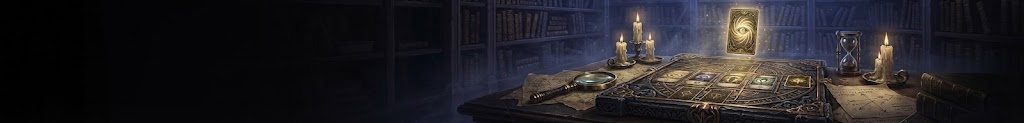
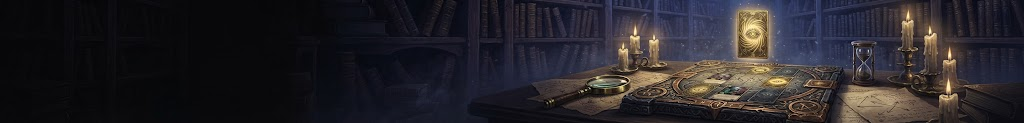
v433 : icône du Butin, bannières de la Salle des jeux et des Énigmes
Claude-Session: https://claude.ai/code/session_01G3jW2e2fkjyWdrMoKXNbtm

diff --git a/sw.js b/sw.js
@@ -1,7 +1,7 @@
 // Service worker d'ABYSSAL : l'application et les données sont mises en cache
 // pour fonctionner hors ligne après une première visite. Incrémenter VERSION à
 // chaque publication pour que les joueurs reçoivent la mise à jour.
-const VERSION = 'abyssal-v432';
+const VERSION = 'abyssal-v433';
 const ART_CACHE = 'abyssal-media';  // images du jeu : gardées entre les versions
 const FONT_CACHE = 'abyssal-fonts';
 const CORE = [
@@ -25,8 +25,8 @@ const CORE = [
   ...['home', 'descent', 'shop', 'collection', 'team', 'chests', 'bestiary', 'trophies', 'profile', 'menu', 'factions', 'door-fight', 'door-elite', 'door-boss', 'door-gouffre', 'rest', 'altar', 'treasure'].map((k) => `assets/scenes/${k}.webp`),
   ...['infernal', 'abyssal', 'celeste', 'necrotique', 'sauvage', 'primordial', 'artificiel'].map((k) => `assets/factions/${k}.webp`),
   ...['holo', 'gold-leaf', 'gold-frame', 'cosmic', 'cosmic-frame', 'seal-frame', 'enluminee-frame', 'abyssale-frame', 'argentee-frame'].map((k) => `assets/variants/${k}.webp`),
-  ...['tuto-1', 'tuto-2', 'tuto-3', 'tuto-4', 'today', 'bn-collection', 'bn-standard', 'bn-faction', 'bn-event', 'bn-premium', 'bn-abysse', 'bn-rule', 'bn-expedition', 'bn-ranking', 'open-bg', 'open-epic', 'chest-bg', 'bn-victory', 'bn-defeat', 'bn-trophies', 'bn-bestiary', 'bn-settings', 'bn-profile', 'bn-weekly', 'bn-streak', 'bn-cursed', 'btn-red', 'btn-dark', 'bless-frame', 'plate-title', 'ribbon', 'crest-victory', 'crest-defeat', 'bn-level', 'bn-achieve', 'rar-C', 'rar-PC', 'rar-R', 'rar-HR', 'rar-M', 'rar-S', 'slot-gold', 'slot-silver', 'bn-ritual', 'bn-sceaux', 'bn-masques', 'bn-encheres', 'bn-enigmes', 'bn-furnace', 'bn-shadow', 'bn-descente', 'bn-boosters', 'bn-renfort'].map((k) => `assets/ui/${k}.webp`),
-  ...['sc-rule-classique', 'sc-rule-sacre', 'sc-rule-identique', 'sc-rule-somme', 'booster', 'book', 'crystal', 'holo', 'ritual', 'depth', 'crown', 'chest', 'cards', 'swords', 'dodge', 'seal', 'hunt', 'streak', 'tab-home', 'tab-collection', 'tab-boosters', 'tab-adventure', 'tab-more', 'avatar', 'showcase', 'illus', 'team', 'history', 'stat-atk', 'stat-hp', 'hp-ring', 'role-garde', 'role-assaut', 'role-soin', 'role-venin', 'role-gel', 'role-cri', 'role-deferlante', 'gem-fv', 'gem-fv0', 'gem-ap', 'gem-ap0', 'crest-boss', 'crest-elite', 'danger', 'power', 'in-hit', 'in-heavy', 'in-charge', 'in-channel', 'in-blast', 'in-shield', 'in-heal', 'in-rally', 'in-poison', 'in-frost', 'st-poison', 'st-frost', 'st-shield', 'st-mark', 'st-defend', 'st-guard', 'st-exposed', 'st-slow', 'st-broken', 'set-game', 'set-tutos', 'set-save', 'set-about', 'online', 'rule', 'torch-on', 'torch-off', 'door-fight', 'door-elite', 'door-boss', 'omen', 'stairs-up', 'stairs-down', 'hand', 'act-attack', 'act-defend', 'act-swap', 'act-rempart', 'act-estoc', 'act-priere', 'act-contagion', 'act-entrave', 'act-marque', 'act-raz', 'discover', 'xp', 'luck', 'titles', 'stats', 'openings', 'genesis', 'chronicles', 'conflicts', 'figures', 'mysteries', 'account', 'settings', 'creator', 'cur-shard', 'cur-ash', 'combo', 'team-ic', 'descend', 'free-pack', 'ticket', 'hourglass', 'feats', 'help'].map((k) => `assets/icons/${k}.webp`),
+  ...['tuto-1', 'tuto-2', 'tuto-3', 'tuto-4', 'today', 'bn-collection', 'bn-standard', 'bn-faction', 'bn-event', 'bn-premium', 'bn-abysse', 'bn-rule', 'bn-expedition', 'bn-ranking', 'open-bg', 'open-epic', 'chest-bg', 'bn-victory', 'bn-defeat', 'bn-trophies', 'bn-bestiary', 'bn-settings', 'bn-profile', 'bn-weekly', 'bn-streak', 'bn-cursed', 'btn-red', 'btn-dark', 'bless-frame', 'plate-title', 'ribbon', 'crest-victory', 'crest-defeat', 'bn-level', 'bn-achieve', 'rar-C', 'rar-PC', 'rar-R', 'rar-HR', 'rar-M', 'rar-S', 'slot-gold', 'slot-silver', 'bn-ritual', 'bn-sceaux', 'bn-masques', 'bn-encheres', 'bn-enigmes', 'bn-enigmes2', 'bn-jeux', 'bn-furnace', 'bn-shadow', 'bn-descente', 'bn-boosters', 'bn-renfort'].map((k) => `assets/ui/${k}.webp`),
+  ...['sc-rule-classique', 'sc-rule-sacre', 'sc-rule-identique', 'sc-rule-somme', 'booster', 'book', 'crystal', 'holo', 'ritual', 'depth', 'crown', 'chest', 'cards', 'swords', 'dodge', 'seal', 'hunt', 'streak', 'tab-home', 'tab-collection', 'tab-boosters', 'tab-butin', 'tab-adventure', 'tab-more', 'avatar', 'showcase', 'illus', 'team', 'history', 'stat-atk', 'stat-hp', 'hp-ring', 'role-garde', 'role-assaut', 'role-soin', 'role-venin', 'role-gel', 'role-cri', 'role-deferlante', 'gem-fv', 'gem-fv0', 'gem-ap', 'gem-ap0', 'crest-boss', 'crest-elite', 'danger', 'power', 'in-hit', 'in-heavy', 'in-charge', 'in-channel', 'in-blast', 'in-shield', 'in-heal', 'in-rally', 'in-poison', 'in-frost', 'st-poison', 'st-frost', 'st-shield', 'st-mark', 'st-defend', 'st-guard', 'st-exposed', 'st-slow', 'st-broken', 'set-game', 'set-tutos', 'set-save', 'set-about', 'online', 'rule', 'torch-on', 'torch-off', 'door-fight', 'door-elite', 'door-boss', 'omen', 'stairs-up', 'stairs-down', 'hand', 'act-attack', 'act-defend', 'act-swap', 'act-rempart', 'act-estoc', 'act-priere', 'act-contagion', 'act-entrave', 'act-marque', 'act-raz', 'discover', 'xp', 'luck', 'titles', 'stats', 'openings', 'genesis', 'chronicles', 'conflicts', 'figures', 'mysteries', 'account', 'settings', 'creator', 'cur-shard', 'cur-ash', 'combo', 'team-ic', 'descend', 'free-pack', 'ticket', 'hourglass', 'feats', 'help'].map((k) => `assets/icons/${k}.webp`),
   // tous les effets de combat (v305 : crit.webp du « Coup fatal » manquait hors ligne → carré « ? » sur iPhone)
   ...['boost', 'break', 'burst', 'collapse', 'crit', 'curse', 'd20', 'd20-crit', 'd20-fumble', 'death', 'dodge', 'fervor', 'frost', 'fx-duo', 'fx-enrage', 'fx-explode', 'fx-rune', 'heal', 'iceshatter', 'impact', 'kill-crack', 'kill-embers', 'kill-shatter', 'parry', 'prey', 'role-claw', 'strike', 'foe-strike', 'crit-strike', 'role-frost', 'role-heal', 'role-mark', 'role-shock', 'role-venom', 'role-wave', 'seal', 'shield', 'slash', 'swallow', 'syn-beam', 'taunt', 'ult-seal', 'venom', 'fx-parry', 'fx-break', 'fx-dodge', 'fx-venom', 'fx-shield', 'fx-taunt', 'fx-boost', 'fx-curse', 'fx-iceshatter', 'fx-prey', 'fx-collapse', 'fx-swallow', 'ult-sceau', 'ult-revive', 'ult-nova', 'ult-smite', 'ult-aegis', 'dice-ring', 'dice-charge', 'dice-perfect', 'dice-land', 'circle-infernal', 'circle-abyssal', 'circle-celeste', 'circle-sauvage', 'circle-necrotique', 'circle-primordial', 'circle-artificiel', 'sk-estoc', 'sk-contagion', 'sk-entrave', 'sk-marque', 'sk-raz', 'sk-rempart', 'sk-priere', 'def-ring', 'def-clash'].map((k) => `assets/fx/${k}.webp`),
   ...['salle', 'salle-artificiel', 'salle-celeste', 'salle-necrotique', 'salle-abyssal', 'plateau', 'case', 'dos', 'benie', 'maudite', 'rival-initie', 'rival-collectionneur', 'rival-stratege', 'rival-maitre', 'rival-echo', 'rival-banquier', 'rival-archiviste', 'rival-souverain', 'salle-masques', 'salle-encheres'].map((k) => `assets/sceaux/${k}.webp`),

diff --git a/js/screens/games.js b/js/screens/games.js
@@ -12,11 +12,11 @@ export default function gamesScreen(app, root) {
   const rec = (w, l) => (w + l ? `${w} victoire${w > 1 ? 's' : ''} · ${l} défaite${l > 1 ? 's' : ''}` : 'Pas encore joué');
   const tile = (href, cls, title, sub, info, img) => `<a class="panel gm-tile ${cls}" href="${href}"><span class="gm-art" style="background-image:url(${img})"></span>
     <span class="gm-txt"><b>${title}</b><span class="small">${sub}</span><span class="small muted">${info}</span></span>${icon('next')}</a>`;
-  root.innerHTML = `<header class="screen-head ui-hero bn-sceaux"><h1>Salle des jeux</h1><p class="muted">Des jeux de cartes à part, contre les arbitres de l’Abysse.</p></header>
+  root.innerHTML = `<header class="screen-head ui-hero bn-jeux"><h1>Salle des jeux</h1><p class="muted">Des jeux de cartes à part, contre les arbitres de l’Abysse.</p></header>
     ${g.sceauxOpen() ? '' : `<section class="panel tr-lock">${icon('lock')}<b>Encore scellée</b><p class="small">Vaincs ton <b>premier gardien</b> dans la Descente (étage 5) pour ouvrir la Salle des jeux.</p><a class="btn primary block" href="#/descente">${icon('p:descend')}Aller à la Descente</a></section>`}
     <div class="gm-list ${g.sceauxOpen() ? '' : 'locked'}">
-      ${tile('#/sceaux', 'gm-sceaux', 'Duels des Sceaux', 'Pose tes cartes sur un plateau de 3 × 3 et capture celles de l’adversaire.', `${rec(sc.wins, sc.losses)} · ${Object.keys(sc.beaten || {}).length} / 8 adversaires battus`, 'assets/sceaux/salle.webp')}
-      ${tile('#/enigmes', 'gm-enigmes', 'Les Énigmes des Sceaux', 'Trois casse-têtes par jour : trouve la pose qui capture le plus de cartes.', eg ? (egLeft ? `${egLeft} énigme${egLeft > 1 ? 's' : ''} à résoudre aujourd’hui` : 'Les trois énigmes du jour sont faites') + ` · ${eg.starsTotal} ★` : 'Trois énigmes par jour', 'assets/ui/bn-enigmes.webp')}
+      ${tile('#/sceaux', 'gm-sceaux', 'Duels des Sceaux', 'Pose tes cartes sur un plateau de 3 × 3 et capture celles de l’adversaire.', `${rec(sc.wins, sc.losses)} · ${Object.keys(sc.beaten || {}).length} / 8 adversaires battus`, 'assets/ui/bn-sceaux.webp')}
+      ${tile('#/enigmes', 'gm-enigmes', 'Les Énigmes des Sceaux', 'Trois casse-têtes par jour : trouve la pose qui capture le plus de cartes.', eg ? (egLeft ? `${egLeft} énigme${egLeft > 1 ? 's' : ''} à résoudre aujourd’hui` : 'Les trois énigmes du jour sont faites') + ` · ${eg.starsTotal} ★` : 'Trois énigmes par jour', 'assets/ui/bn-enigmes2.webp')}
       ${tile('#/masques', 'gm-masques', 'La Cour des Masques', 'Bluff à trois : donne une carte, annonce sa faction… et mens si tu l’oses.', `${rec(mq.wins, mq.losses)} · ${Object.keys(mq.beaten || {}).length} / ${MQ.TABLES.length} tables gagnées`, 'assets/ui/bn-masques.webp')}
       ${tile('#/encheres', 'gm-encheres', 'Les Enchères de Mammon', 'Enchères à l’aveugle à trois : offre plus que les autres… sans jamais offrir pareil.', `${rec(en.wins, en.losses)} · ${Object.keys(en.beaten || {}).length} / ${EN.TABLES.length} ventes gagnées`, 'assets/ui/bn-encheres.webp')}
     </div>`;

diff --git a/js/main.js b/js/main.js
@@ -47,7 +47,7 @@ const ROUTES = {
   parametres: settingsScreen, descente: descentScreen, compte: accountScreen, menu: menuScreen, equipe: teamScreen, coffres: chestsScreen, heros: descentScreen, arsenal: chestsScreen, marchand: descentScreen, sceaux: sceauxScreen, masques: masquesScreen, encheres: encheresScreen, enigmes: enigmesScreen, jeux: gamesScreen, epreuves: trialsScreen, epreuve: descentScreen, tirage: shadowScreen, renfort: forgeScreen, fournaise: furnaceScreen,
 };
 const TABS = [
-  ['antre', 'tab-home', 'Accueil'], ['collection', 'tab-collection', 'Collection'], ['boutique', 'tab-boosters', 'Butin'], /* v428 : boosters, coffres et Tirage (v432 : « Butin ») */
+  ['antre', 'tab-home', 'Accueil'], ['collection', 'tab-collection', 'Collection'], ['boutique', 'tab-butin', 'Butin'], /* v428 : boosters, coffres et Tirage (v432 : « Butin ») */
   ['descente', 'tab-adventure', 'Aventure'], ['menu', 'tab-more', 'Sanctuaire'],
 ];
 // icônes peintes de la barre du bas (assets/icons)

diff --git a/css/army.css b/css/army.css
@@ -3852,3 +3852,6 @@ body:not(.battle-mode) .btn.small { min-height: 44px; }
 .bn-encheres { --bn: url(../assets/ui/bn-encheres.webp); }
 .bn-enigmes { --bn: url(../assets/ui/bn-enigmes.webp); }
 .gm-encheres .gm-art, .gm-enigmes .gm-art { background-position: right center; }
+/* v433 : bannière Gemini de la Salle des jeux, nouvelle bannière des Énigmes (nouveau nom : pas d'ancienne copie servie) */
+.bn-jeux { --bn: url(../assets/ui/bn-jeux.webp); }
+.bn-enigmes { --bn: url(../assets/ui/bn-enigmes2.webp); }

diff --git a/js/config.js b/js/config.js
@@ -1,7 +1,7 @@
 // Configuration centrale du jeu : raretés, tables de tirage, boosters,
 // économie, variantes, progression. Toute la balance se règle ici.
 
-export const VERSION = 'v432'; // même numéro que sw.js : affiché dans Réglages > À propos
+export const VERSION = 'v433'; // même numéro que sw.js : affiché dans Réglages > À propos
 
 export const RARITIES = [
   { key: 'C',  name: 'Commune',     short: 'C',  color: '#A3ADBD' },

diff --git a/CLAUDE.md b/CLAUDE.md
@@ -22,7 +22,7 @@ Ce texte reprend tout ce qu'il faut savoir du projet. Ce fichier est lu automati
 - Le réseau de la session bloque github.io : pour vérifier la publication, passe par l'outil GitHub (déploiements Pages) ou demande une capture au propriétaire.
 
 ## 2. Routine de livraison
-1. Version : **ligne 4** de `js/config.js` **et** de `sw.js`, toujours le même numéro (`sed -i "4s/vX/vY/" js/config.js sw.js`). Actuellement **v432**.
+1. Version : **ligne 4** de `js/config.js` **et** de `sw.js`, toujours le même numéro (`sed -i "4s/vX/vY/" js/config.js sw.js`). Actuellement **v433**.
 2. Tests : `node --test tests/*.test.mjs` (263 tests, dont `tests/syntaxe.test.mjs` qui passe `node --check` sur chaque fichier de `js/` : les écrans ne sont importés par aucun autre test), `node tools/validate.mjs`. Si le combat ou l'équilibre change : `node tools/fuzz.mjs 300` (étage moyen ≈ 12 à 14 en normal).
 3. Vérification dans le navigateur avec Playwright (`/opt/node-tools/node_modules/playwright/index.mjs`, Chromium déjà installé), avec un serveur local `python3 -m http.server 8092` lancé dans le dossier. Tailles iPhone SE et iPhone 13. **L'écran d'ouverture attend un toucher** (« Touche l'écran pour entrer ») : dans les scripts, cliquer au milieu de l'écran (dans la fenêtre 390×664) avant tout le reste.
 4. Commit, push, réponse en français.
@@ -103,6 +103,7 @@ Ce texte reprend tout ce qu'il faut savoir du projet. Ce fichier est lu automati
 - Amis par pseudo (voir stats et collection), puis versus 1 contre 1 (Sceaux et combats façon Descente). Le propriétaire veut que le perdant **perde vraiment** une carte. Cadre conseillé si on le fait : mode « Duel à enjeu » séparé et consenti (duel normal sans perte à côté), mise de même rareté des deux côtés, favoris jamais mis en jeu, adversaires de niveau proche, accès après quelques jours et duels normaux (contre les comptes jetables et le trafic de cartes), uniquement entre joueurs présents ou amis ayant accepté (jamais sur une partie jouée par l'IA à la place d'un absent).
 
 ## 5. Décisions déjà prises
+- v433 : icône Gemini de l'onglet Butin (coffre de cristaux, booster scellé, pièces : `assets/icons/tab-butin.webp` 160 px, détourée par `tools/cutout-white.py --holes`, source `store/icons/tab-butin-source.jpg`) ; bannière de la Salle des jeux `assets/ui/bn-jeux.webp` (`.bn-jeux`, source `store/ui/bn-jeux-source.jpg`), tuile des Duels des Sceaux = `bn-sceaux` ; nouvelle bannière des Énigmes `assets/ui/bn-enigmes2.webp` (nouveau nom, même recette que v431 : Gemini rend encore une image très allongée 1024 × 123).
 - v432 : onglet du bas « Trésors » renommé **« Butin »** (choix du propriétaire ; clé `boutique` inchangée). Attention : le « Butin du jour » des Sceaux garde son nom.
 - v431 : images Gemini des Enchères et des Énigmes : bannières `assets/ui/bn-encheres.webp` (900 × 297, recadrée à droite, source `store/ui/bn-encheres-source.jpg`) et `assets/ui/bn-enigmes.webp` (source très large 1024 × 123 `store/ui/bn-enigmes-source.jpg` : partie droite posée en bas d'un fond en dégradé), classes `.bn-encheres`, `.bn-enigmes`, aussi sur les tuiles de la Salle des jeux ; salle des ventes `assets/sceaux/salle-encheres.webp` (source `store/sceaux/salle-encheres-source.jpg`) en fond des ventes et des lignes de salles.
 - v430 : **règles du jour retirées** (« pas d'intérêt », demande du propriétaire) : `dailyRule` renvoie une règle neutre (`key: 'none'`, `off: true`) à partir de `RULES_OFF_FROM` = 2026-10-18 (les jours passés gardent la leur, le code des règles reste) ; encart caché au vestibule de la Descente et aux Épreuves, pastille cachée en combat, ligne retirée de la fiche du store.
